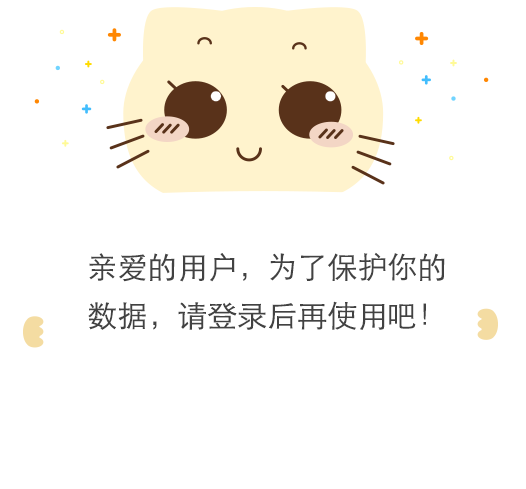
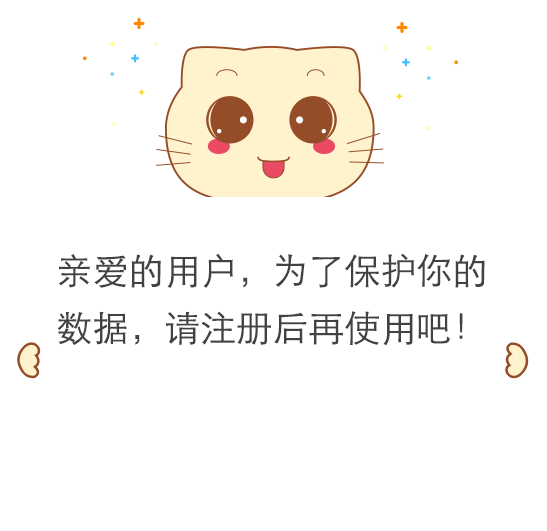
修改登录和预算提示框

diff --git a/SuiShouJi/Module/BookKeeping/BookKeepingHome/View/SSJHomeReminderView.m b/SuiShouJi/Module/BookKeeping/BookKeepingHome/View/SSJHomeReminderView.m
@@ -32,16 +32,16 @@
     [super layoutSubviews];
     self.remindImage.center = CGPointMake(self.width / 2, self.height / 2);
     self.remindLabel.width = self.remindImage.width - 70;
-    self.remindLabel.bottom = self.remindImage.bottom - 40;
+    self.remindLabel.bottom = self.remindImage.bottom - 70;
     self.remindLabel.centerX = self.width / 2;
-    self.closeButton.size = CGSizeMake(27, 27);
-    self.closeButton.rightTop = CGPointMake(self.remindImage.right - 27, self.remindImage.top + 13);
+    self.closeButton.centerX = self.width / 2;
+    self.closeButton.top = self.remindLabel.bottom + 15;
 }
 
 -(UIImageView *)remindImage{
     if (!_remindImage) {
         _remindImage = [[UIImageView alloc]init];
-        _remindImage.size = CGSizeMake(320 , 328);
+        _remindImage.size = CGSizeMake(320 , 425);
         _remindImage.image = [UIImage imageNamed:@"home_remind"];
     }
     return _remindImage;
@@ -61,9 +61,11 @@
 
 -(UIButton *)closeButton{
     if (!_closeButton) {
-        _closeButton = [[UIButton alloc]init];
-        
-        [_closeButton setImage:[UIImage imageNamed:@"remind_close"] forState:UIControlStateNormal];
+        _closeButton = [[UIButton alloc]initWithFrame:CGRectMake(0, 0, 130, 40)];
+        _closeButton.layer.cornerRadius = 20;
+        _closeButton.layer.borderColor = [UIColor whiteColor].CGColor;
+        _closeButton.layer.borderWidth = 1.f / [UIScreen mainScreen].scale;
+        [_closeButton setTitle:@"知道了" forState:UIControlStateNormal];
         [_closeButton addTarget:self action:@selector(closeButtonClicked:) forControlEvents:UIControlEventTouchUpInside];
     }
     return _closeButton;

diff --git a/SuiShouJi/Module/BookKeeping/BookKeepingHome/ViewController/SSJBookKeepingHomeViewController.m b/SuiShouJi/Module/BookKeeping/BookKeepingHome/ViewController/SSJBookKeepingHomeViewController.m
@@ -89,7 +89,7 @@
         NSDate *lastPopTime = [[NSUserDefaults standardUserDefaults]objectForKey:SSJLastPopTimeKey];
         NSTimeInterval time=[currentDate timeIntervalSinceDate:lastPopTime];
         int days=((int)time)/(3600*24);
-        if (days > 14) {
+        if (days > 7) {
             SSJBookKeepingHomePopView *popView = [SSJBookKeepingHomePopView BookKeepingHomePopView];
             popView.frame = [UIScreen mainScreen].bounds;
             __weak typeof(self) weakSelf = self;
@@ -122,6 +122,7 @@
     self.navigationItem.titleView = self.budgetButton;
     self.navigationItem.rightBarButtonItems = @[rightSpace, self.rightBarButton];
     
+
     //  数据库初始化完成后再查询数据
     if (self.isDatabaseInitFinished) {
         [self getDateFromDatebase];
